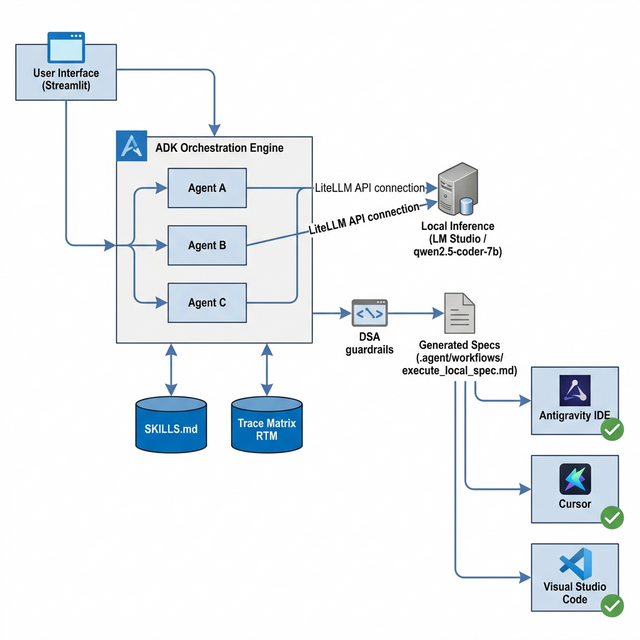
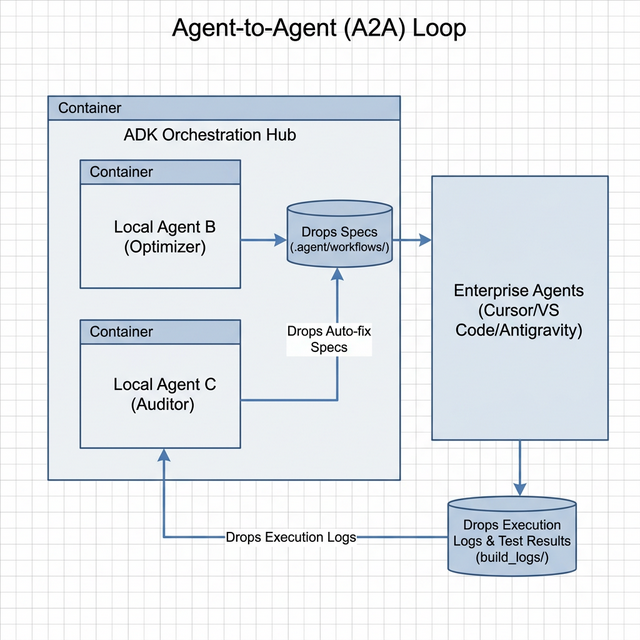
feat: Implement A2A bidirectional loop in UI and documentation

diff --git a/src/app.py b/src/app.py
@@ -125,27 +125,27 @@ if st.session_state.draft_spec and not st.session_state.draft_approved:
     edited_spec = st.text_area("Adjust constraints before final commit to execute_local_spec.md:", 
                                value=st.session_state.draft_spec, height=400)
     
-    if st.button("Finalize Spec & Trigger Auditor"):
+    if st.button("Finalize Spec & Drop to Enterprise Agent (A2A Handoff)"):
         system_io.write_local_spec(edited_spec)
         st.success("Spec successfully written to .agent/workflows/execute_local_spec.md")
         st.session_state.draft_approved = True
         
-        with st.spinner("Agent C (The Auditor) is reviewing code complexity..."):
+        with st.spinner("Waiting for Enterprise Agent Execution Logs... Agent C evaluating build_logs/ ..."):
             audit_result = orch.run_auditor()
             st.session_state.auditor_output = audit_result["auditor_output"]
         st.rerun()
 
 if st.session_state.auditor_output:
     st.markdown("---")
-    st.subheader("Auditor Agent Circuit Breaker")
-    st.info("The Auditor found the following insights after parsing git diff and test results:")
+    st.subheader("A2A Continuous Audit Loop (Agent C)")
+    st.info("The Local Auditor read the simulation logs & unit tests dropped by the Enterprise Agent. Here are the findings:")
     st.markdown(st.session_state.auditor_output)
     
-    st.warning("Agent C requests to write 'auto_fix.md'. Do you approve this operation?")
+    st.warning("Agent C requests to write an 'auto_fix.md' spec back to the Enterprise Agent to fix edge cases. Approve this A2A handoff?")
     
     col1, col2 = st.columns(2)
     with col1:
-        if st.button("✔ Approve Auto-Fix", use_container_width=True):
+        if st.button("✔ Approve Auto-Fix Drop", use_container_width=True):
             result = system_io.trigger_circuit_breaker(st.session_state.auditor_output, is_ui_approved=True)
             st.success(result["message"])
             st.session_state.auditor_output = None

diff --git a/docs/linkedin_post.md b/docs/linkedin_post.md
@@ -1,0 +1,37 @@
+If you spend any time building with AI IDEs like Cursor or Visual Studio, you know the friction: keeping the AI aligned with your actual enterprise architecture standards. It's incredibly tough to prevent context loss and avoid poorly optimized code generation without blowing through your token limits by pasting massive, redundant prompt specifications every single time.
+
+I found myself wasting thousands of context tokens repeatedly pasting my project rules, just to keep downstream coding agents enforcing things like strict Pytest coverage, SCD2 logic, or O(n) algorithmic limits. 
+
+So, I decided to build a system to fix it. 
+
+I'm excited to share my latest open-source project: The Local ADK Orchestrator. It's a completely local Python orchestration pipeline built with Streamlit, the Google Agent Development Kit, and Litellm, all powering a local qwen2.5-coder instance.
+
+Why I Created It
+While modern AI coding tools are incredible at writing code, they have a massive context problem. If you don't engineer the prompt perfectly, they hallucinate or write unoptimized code. But if you paste your entire rulebook into every prompt, you destroy your token efficiency. 
+
+I needed an upstream "Architect" that lives on my machine. I wanted an orchestrator to cross-examine my requirements, intelligently route tasks to specialized agents (Clarifier, Optimizer, Auditor), and automatically enforce a static enterprise rulebook before a single line of application code is ever generated by the IDE.
+
+What It Does
+
+![Local ADK Orchestrator Chat Interface](C:\Users\Ragotham Kanchi\.gemini\antigravity\brain\ed1c88fb-5a73-4a30-8944-8fbaa2050a74\orchestrator_chat_ui_demo_1773296905384.png)
+
+1. Token Utilization Efficiency: This is the core engine. Instead of dumping massive rulebooks into your IDE every time, the Orchestrator's Optimizer agent reads your requirements and generates hyper-dense, token-optimized Markdown specs. Your downstream IDE only consumes the exact, condensed context it needs to execute the task, drastically saving your token budget.
+2. Interactive Trace Memory: A Streamlit UI dynamically extracts facts from our conversation into a Requirements Trace Matrix so context is never lost over a long session.
+3. Multi-Agent Routing: It uses Google ADK to route chats through three distinct agents: The Clarifier (to ask architectural questions), The Optimizer (to generate the dense specs), and The Auditor (to review git diffs and test logs for compliance).
+4. Agent-to-Agent (A2A) Continuous Loop: The Local Agent outputs an airtight markdown spec to a workflows directory. An Enterprise Agent (your IDE) consumes it, executes the code, and drops simulation logs and unit test results back to the system. The Local Agent's Auditor actively reads those logs, catches edge cases, and dynamically drops fix-specs back to the Enterprise Agent until the task completely passes!
+5. Mathematical Guardrails: I embedded a Python AST-parser to actively scan Git commit logic. It trips a UI circuit breaker if it detects nested loop degradations before completing the A2A loop.
+
+Future Enhancements
+This is just the baseline. I am exploring several enhancements to evolve this orchestrator further:
+- Direct IDE Plugins: Building a native extension to bridge the orchestrator's spec generation directly into VS Code or Cursor.
+- GraphRAG Codebase Ingestion: Implementing a GraphRAG layer so the Clarifier Agent can map and "see" the entire existing project dependency tree instead of just relying on static rule sets.
+- Multi-Modal Flow: Allowing users to upload Visio or Mermaid architecture diagrams to the UI, which the Optimizer Agent would then translate directly into structural code specs.
+- Auto-PR Pipelines: Hooking The Auditor up to a GitHub Action to automatically comment on or draft PRs locally based on test execution outputs.
+
+If you are interested in local AI orchestration, Python app development, or enterprise Data Engineering patterns, check out the repository. 
+
+GitHub Repository: https://github.com/Ragotham1209/local-adk-orchestrator
+
+I'd love to hear your thoughts or see how you handle AI context retention and token efficiency in your own workflows.
+
+#DataEngineering #AI #MachineLearning #Python #SoftwareArchitecture #OpenSource

diff --git a/docs/video_script.md b/docs/video_script.md
@@ -1,0 +1,67 @@
+# Local ADK Orchestrator: Video Production Script
+
+**Target Length:** ~60-90 seconds
+**Aspect Ratio:** 16:9 (Desktop Recording) or 4:5 (LinkedIn Optimized)
+**Format:** Screen recording using OBS / Snagit / Loom. 
+**Pacing:** Brisk and technical. Show the problem quickly, emphasize the AI speed, and end with the result in the IDE.
+
+---
+
+## 🎬 Scene 1: The Problem (0:00 - 0:10)
+**Visual (Screen):** 
+Open a standard AI IDE (like Cursor or VS Code) with an empty Python file. Briefly flip to a massive "Prompt Rules.txt" file full of enterprise standards (Pytest, SCD2, Logging rules). Highlight the massive text block to imply the tedious "copy-pasting" required.
+
+**Voiceover:**
+*"Every time I start a new task in an AI IDE, I face the same problem: dropping thousands of context tokens just to paste my enterprise standards, ensuring the AI doesn't write unoptimized junk."*
+
+---
+
+## 🎬 Scene 2: The Solution UI (0:10 - 0:25)
+**Visual (Screen):** 
+Cut to the **Local ADK Orchestrator Streamlit App** running in your browser (`http://localhost:8501`).
+Zoom in slightly on the dark-mode Chat Interface. Type: *"I need a pipeline with SCD2 logic."* and hit Enter. Show the Clarifier Agent responding instantly. 
+**Action:** Type a quick reply: *"Ensure it includes a Pytest suite."*
+
+**Voiceover:**
+*"So I built the Local ADK Orchestrator. It acts as an upstream Prompt Architect running locally. Instead of dumping rules into Cursor, I just chat with my Orchestrator. It cross-examines my requirements and mathematically enforces my foundational rulebook in the background."*
+
+---
+
+## 🎬 Scene 3: Trace Matrix & Generation (0:25 - 0:40)
+**Visual (Screen):**
+Mouse over to the left sidebar titled **"Trace Matrix (RTM)"**. Show that the JSON fact block has automatically updated with the context of the chat. 
+**Action:** Click the primary blue button **"Approve & Generate Spec"**. 
+A loading spinner appears. Then, the "Draft Spec Preview" box populates with a hyper-dense, perfectly structured Markdown specification.
+
+**Voiceover:**
+*"Notice the Trace Matrix on the left? It dynamically extracts the facts of our conversation so context is never lost. Once I hit Generate, the Optimizer Agent strips the fluff and outputs a hyper-dense, token-optimized specification."*
+
+---
+
+## 🎬 Scene 4: The Agent-to-Agent (A2A) Handoff (0:40 - 0:55)
+**Visual (Screen):**
+**Action:** Click **"Finalize Spec & Drop to Enterprise Agent (A2A Handoff)"**. 
+The UI spins, saying *Waiting for Enterprise Agent Execution Logs...*
+Cut quickly back to your IDE (Cursor/VS Code). Open the newly generated `.agent/workflows/execute_local_spec.md` file. Show the beautifully formatted markdown right inside your codebase workspace. 
+
+**Voiceover:**
+*"It automatically drops this airtight spec to my workflows directory. My Enterprise Agent—my IDE—consumes the spec, executes the code, and drops the test results and simulation logs right back into the build directory."*
+
+---
+
+## 🎬 Scene 5: The A2A Audit Loop Completes (0:55 - 1:05)
+**Visual (Screen):**
+Cut quickly back to the Orchestrator UI. The Auditor screen pops up showing an edge-case test failure read from the IDE's logs.
+**Action:** Click **"Approve Auto-Fix Drop"**.
+In the IDE, hit `Ctrl+K` or `Cmd+K` targeting the new fix spec. Watch the AI effortlessly generate the perfect, compliant Python fix. 
+**Overlay Text:** "Get the Code: github.com/Ragotham1209/local-adk-orchestrator"
+
+**Voiceover:**
+*"The Local Auditor automatically reads those logs, flags edge-cases or unoptimized logic, and drops a fix-spec back to the IDE. A true, continuous Agent-to-Agent loop. If you want to secure your local AI execution, get the code below!"*
+
+---
+
+### 🎙 Production Tips
+* **Audio:** If you don't want to record your own voice, drop the **Voiceover** text blocks into [ElevenLabs.io](https://elevenlabs.io/) for an ultra-realistic, professional AI voice track.
+* **Recording:** Use a tool like OBS Studio (Free) to record your screen at 1080p.
+* **Editing:** Use CapCut (Free) to add auto-captions on the screen. LinkedIn videos perform 80% better when subtitles are baked into the video since most users watch on mute!

diff --git a/README.md b/README.md
@@ -7,7 +7,9 @@
 ![Google ADK](https://img.shields.io/badge/Agent%20Dev%20Kit-Google-4285F4?logo=google)
 ![License](https://img.shields.io/badge/License-MIT-green)
 
-A production-grade local Python orchestration pipeline utilizing Streamlit for the UI and the Google Agent Development Kit (ADK) for AI routing. This framework operates as a local "Prompt Architect" that cross-examines user requirements, manages context dynamically into a Trace Matrix, enforces enterprise coding standards (`SKILLS.md`), and generates highly structured, token-efficient markdown specifications specifically optimized to be consumed by downstream AI IDEs (Antigravity, Cursor, VS Code) for generation.
+A production-grade local Python orchestration pipeline utilizing Streamlit for the UI and the Google Agent Development Kit (ADK) for AI routing. 
+
+This framework operates as a **Local Agent** that cross-examines user requirements, enforces enterprise coding standards (`SKILLS.md`), and drops highly structured markdown specs. It initiates an **Agent-to-Agent (A2A) continuous loop** where downstream **Enterprise Agents** (Antigravity, Cursor, VS Code) consume the specs, execute the code, and drop results/logs back into the system. The Local Agent then automatically reads these logs, audits unit test or simulation edge-case failures, and dynamically drops fix specs back to the Enterprise Agent until the task is complete.
 
 ---
 
@@ -40,6 +42,7 @@ A production-grade local Python orchestration pipeline utilizing Streamlit for t
 | **Orchestration** | Google ADK & Python | Defines modular Clarifier, Optimizer, and Auditor tools |
 | **LLM Gateway** | LiteLLM | Normalizes API requests to the physical local LLM |
 | **Local Inference** | LM Studio (`qwen2.5-coder-7b`) | VRAM-loaded inference execution running zero cloud cost |
+| **A2A Middleware** | File System Handoffs | Asynchronous communication bridge syncing Specs and Logs between agents |
 | **Rule Engine** | `ast` and Python Subprocess | Git diff structural evaluation against time-complexity limits |
 | **Output Intercept** | Markdown (`.md`) Specs | Bridging files generated explicitly for downstream AI context windows |
 
@@ -92,17 +95,15 @@ streamlit run src/app.py
 
 ---
 
-## Agent Data Flow
+## The Agent-to-Agent (A2A) Continuous Loop
 
 ```
-User (Streamlit UI) --> Converses dynamically 
-  --> Agent A (Clarifier) refines facts
-    --> `rtm_state.json` saves constraints
-      --> Agent B (Optimizer) builds Spec
-        --> IDE Consumes Markdown into Code
-          --> Test Cases fail & hit `build_logs/`
-            --> Agent C (Auditor) parses AST git diff
-              --> Circuit Breaker (UI confirms fix approval)
+1. Local Agent (Optimizer) --> Drops initial Spec logic constraints
+  --> 2. Enterprise Agent (IDE) reads Spec and writes/executes Code
+    --> 3. Enterprise Agent drops test results and edge-case logs to `build_logs/`
+      --> 4. Local Agent (Auditor) automatically reads `build_logs/`
+        --> 5. Local Agent drops `auto_fix.md` specs for simulation misses
+          --> 6. Enterprise Agent picks up fixes. Loop continues until tests pass.
 ```
 
 ---
@@ -110,8 +111,8 @@ User (Streamlit UI) --> Converses dynamically
 ## Guardrails & Complexity Enforcement
 
 Agent C (The Auditor) triggers independent evaluations checking structural commits over simply matching code diffs:
-1. Validates standard `pytest` coverage execution
-2. Reconstructs git additions physically checking for inner nested-loop complexity flags via `dsa_engine.py` allowing deterministic fail states.
+1. Validates standard `pytest` coverage execution and simulation results dropped by the Enterprise Agent.
+2. Reconstructs git additions physically checking for inner nested-loop complexity flags via `dsa_engine.py` allowing deterministic fail states before the A2A loop completes.
 
 ---
 
